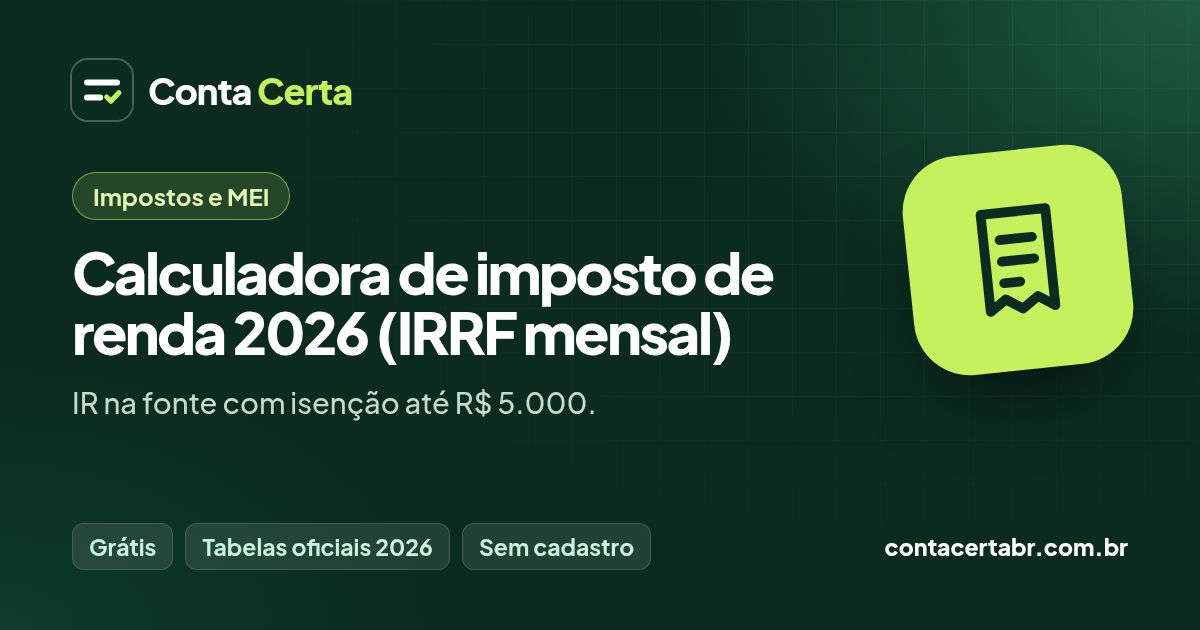
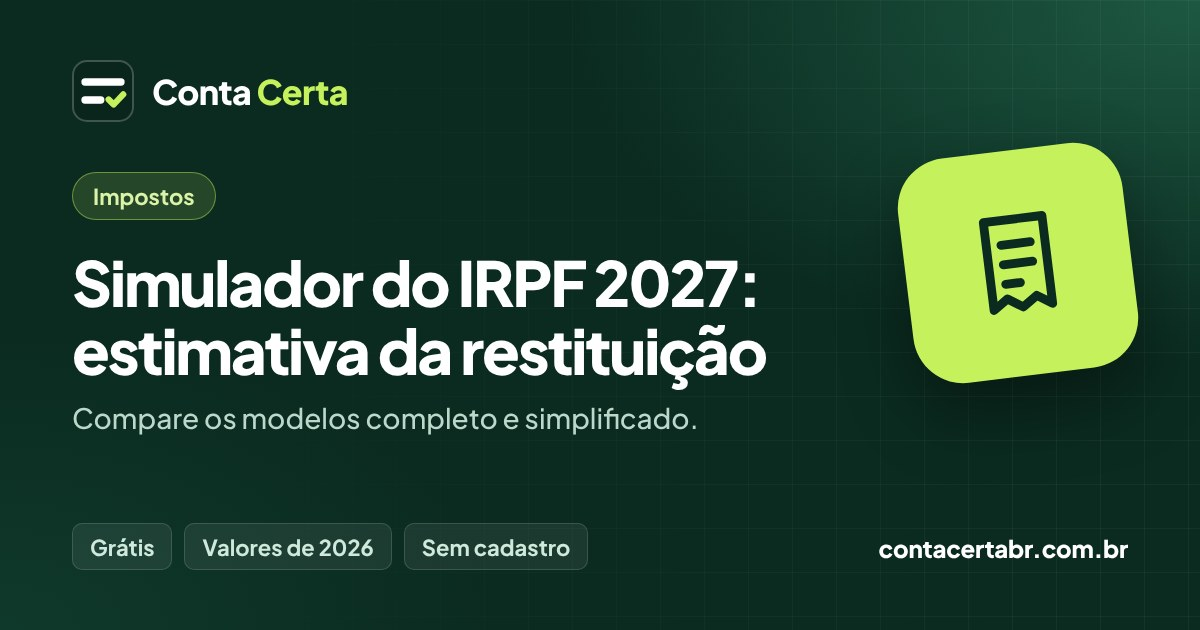
fix(irpf): arte de compartilhamento própria do simulador, no lugar da cópia da calculadora de IRRF (CC-SITE-07)
og/irpf.jpg tinha o mesmo md5 de og/imposto-de-renda.jpg (5c1201220b843a04e0022ba073451cdd): a arte
dizia "Calculadora de imposto de renda 2026 (IRRF mensal)", enquanto o og:image:alt e o
WebApplication.image do JSON-LD falam do simulador IRPF 2027.

- og/irpf.jpg nova, 1200x630, no layout das outras: selo "Impostos", título igual ao H1 ("Simulador
  do IRPF 2027: estimativa da restituição"), "Compare os modelos completo e simplificado." (da meta
  description) e os chips Grátis, Valores de 2026 e Sem cadastro (da linha de meta da página). O alt e o
  JSON-LD já descreviam essa arte e não mudam.
- tools/og.mjs gera as artes com o Playwright de tests/e2e e a fonte de /fonts, sem rede; o ícone sai
  do sprite da página. Tabela ARTES para as próximas páginas; recusa título com mais de 2 linhas.
- tests/og-imagens.test.mjs: toda og:image diferente de og/padrao.jpg tem bytes únicos entre as
  páginas (falhava com irpf = imposto-de-renda) e o arquivo tem a medida declarada em
  og:image:width/height. README atualizado.

Claude-Session: https://claude.ai/code/session_013VjY2yN6G5j22qYaAZJRov

diff --git a/README.md b/README.md
@@ -121,6 +121,14 @@ bloqueia o IP do GitHub), registre numa issue em vez de remover o link; se estiv
 o link nessas páginas. O GitHub desliga o agendamento depois de 60 dias sem atividade no repositório: reative em
 Actions se isso acontecer.
 
+## Imagens de compartilhamento (og:image)
+
+As artes de `og/` têm 1200x630 e o mesmo layout (marca, selo, título, subtítulo, chips e o ícone da página).
+`node tools/og.mjs <nome>` gera `og/<nome>.jpg` a partir da tabela `ARTES` do script, com o Playwright de `tests/e2e`
+(`npm ci --ignore-scripts` lá) e a fonte de `/fonts`, sem rede; `CHROME_PATH` aponta outro Chromium. Os textos da arte
+saem do que a página já diz. Página sem arte própria usa `og/padrao.jpg`: `tests/og-imagens.test.mjs` falha com arte
+copiada de outra página (bytes iguais com outro nome) e com medida diferente da declarada em `og:image:width/height`.
+
 ## Lighthouse
 
 O job `lighthouse` do CI roda o Lighthouse 13.5.0 (`npx --yes lighthouse@13.5.0`) em 9 URLs, nos perfis mobile e
